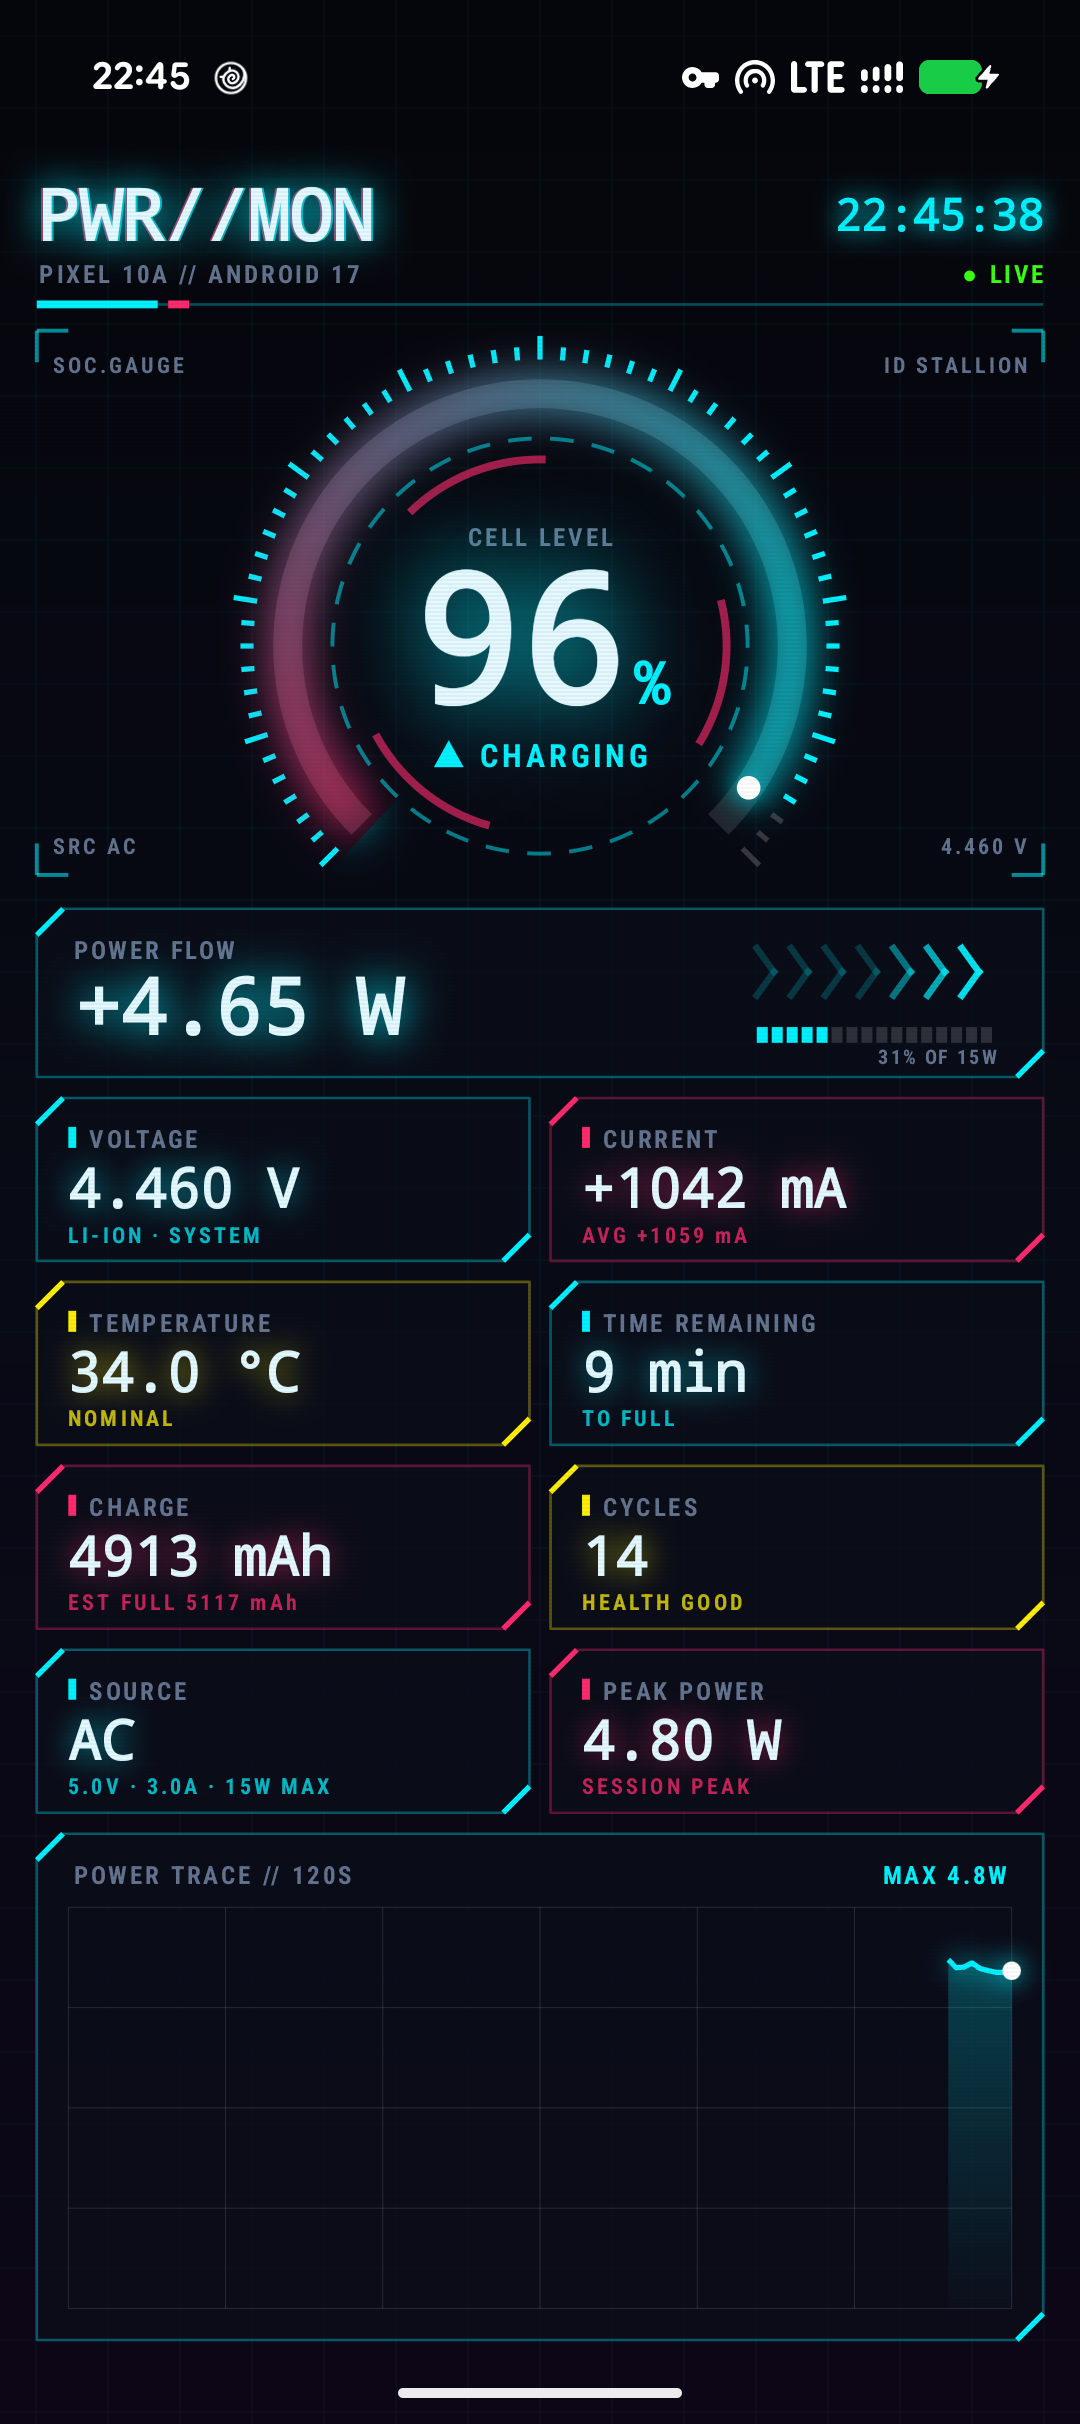
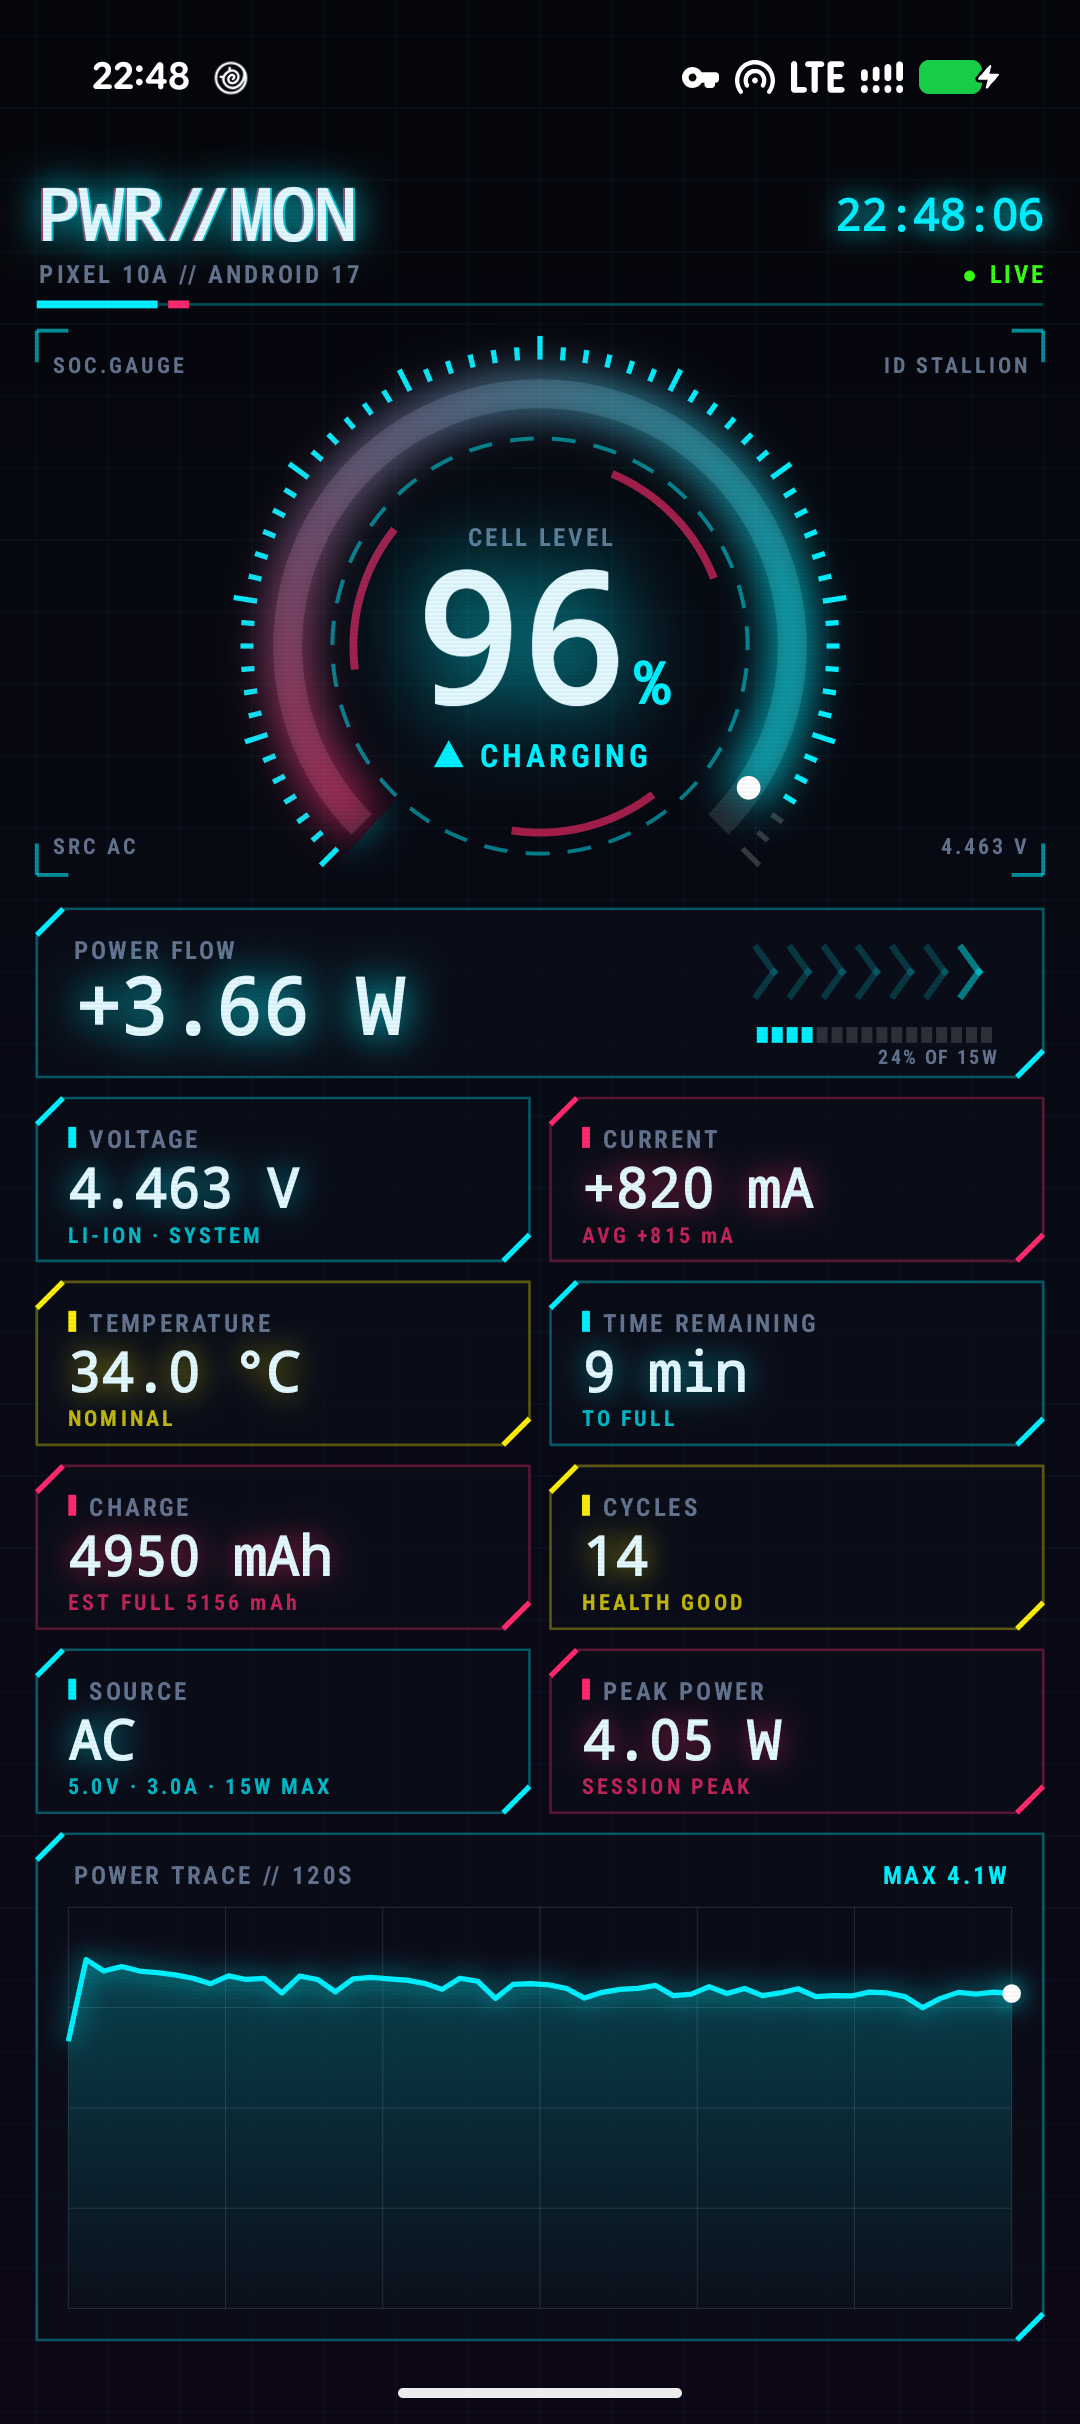
Tighten title slashes, fill power trace from the left, set version 0.1

diff --git a/src/com/xcl/pwrmon/MonitorView.java b/src/com/xcl/pwrmon/MonitorView.java
@@ -365,14 +365,22 @@ public class MonitorView extends View {
         for (float yy = step / 2; yy < h; yy += step) c.drawLine(0, yy, w, yy, pS);
     }
 
+    /** Draws the title in two runs so the monospace slashes sit tight together. */
+    private void title(Canvas c, float x, float base, int color, int glow) {
+        float size = 27 * u;
+        txt(c, "PWR/", x, base, size, color, mono, Paint.Align.LEFT, glow);
+        float overlap = pT.measureText("/") * 0.42f;
+        txt(c, "/MON", x + pT.measureText("PWR/") - overlap, base, size, color, mono, Paint.Align.LEFT, glow);
+    }
+
     private void drawHeader(Canvas c, float x0, float y, float x1, float t) {
         float base = y + 26 * u;
         // chromatic split, exaggerated for a moment every few seconds
         float phase = t % 5f;
         float split = phase < 0.12f ? 4 * u : (phase > 2.5f && phase < 2.56f ? -3 * u : 0.8f * u);
-        txt(c, "PWR//MON", x0 - split, base, 27 * u, alpha(MAGENTA, 0xB0), mono, Paint.Align.LEFT, 0);
-        txt(c, "PWR//MON", x0 + split, base, 27 * u, alpha(CYAN, 0xB0), mono, Paint.Align.LEFT, 0);
-        txt(c, "PWR//MON", x0, base, 27 * u, TEXT, mono, Paint.Align.LEFT, CYAN);
+        title(c, x0 - split, base, alpha(MAGENTA, 0xB0), 0);
+        title(c, x0 + split, base, alpha(CYAN, 0xB0), 0);
+        title(c, x0, base, TEXT, CYAN);
         String dev = Build.MODEL.toUpperCase(Locale.US) + " // ANDROID " + Build.VERSION.RELEASE;
         txt(c, dev, x0 + 1 * u, base + 16 * u, 9.5f * u, DIM, label, Paint.Align.LEFT, 0);
 
@@ -588,8 +596,10 @@ public class MonitorView extends View {
         }
         if (histN < 2) return;
 
-        float dx = (gx1 - gx0) / (HIST - 1);
-        float sx = gx1 - (histN - 1) * dx;
+        // grow from the left and compress until the window is full
+        float dx = (gx1 - gx0) / (Math.max(histN, 30) - 1);
+        float sx = gx0;
+        float ex = sx + (histN - 1) * dx;
         path.rewind();
         for (int k = 0; k < histN; k++) {
             float px = sx + k * dx;
@@ -600,7 +610,7 @@ public class MonitorView extends View {
         float lastY = gy1 - (hist[histN - 1] - lo) / span * (gy1 - gy0);
 
         Path fill = new Path(path);
-        fill.lineTo(gx1, zeroY);
+        fill.lineTo(ex, zeroY);
         fill.lineTo(sx, zeroY);
         fill.close();
         pF.clearShadowLayer();
@@ -618,7 +628,7 @@ public class MonitorView extends View {
 
         pF.setColor(0xFFFFFFFF);
         pF.setShadowLayer(8 * u, 0, 0, accent);
-        c.drawCircle(gx1, lastY, 3.5f * u, pF);
+        c.drawCircle(ex, lastY, 3.5f * u, pF);
         pF.clearShadowLayer();
     }
 
